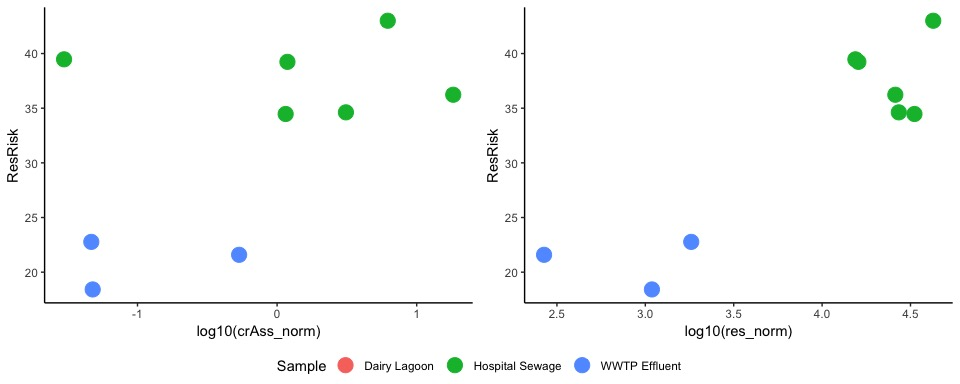
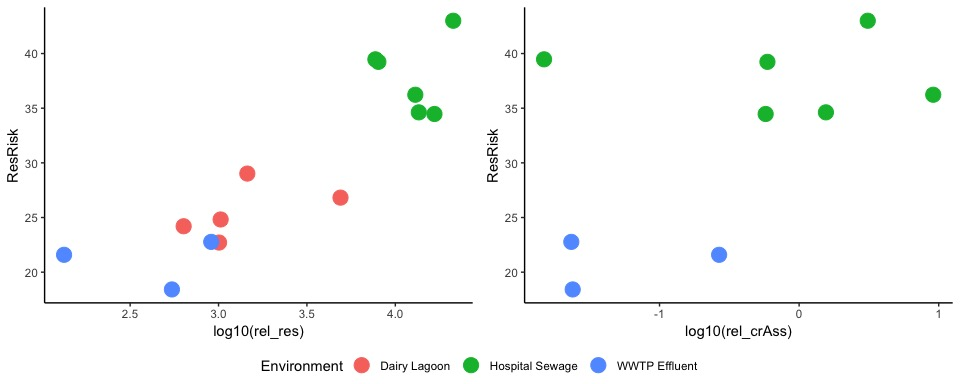
all supll done

diff --git a/README.md b/README.md
@@ -416,22 +416,22 @@ The results show that due to the one outlier (hospital effluent) with higher ARG
 The regression model between the ARG abundance and resistance risk is significant revealing the main driver behind the resistasnce risk calculations. With the resistance risk approach the hospital effluent, a possible hotspot for ARGs, would not have been spotted. For the figures, see under [Supplementary figures.](#supplementary-figures)
 
 ``` r
-risk_mod_crAss <- lm(ResRisk~log10(crAss_norm), data=res_risk)
+risk_mod_crAss <- lm(ResRisk~log10(rel_crAss), data=res_risk)
 summary(risk_mod_crAss)
 ```
 
     ## 
     ## Call:
-    ## lm(formula = ResRisk ~ log10(crAss_norm), data = res_risk)
+    ## lm(formula = ResRisk ~ log10(rel_crAss), data = res_risk)
     ## 
     ## Residuals:
     ##      Min       1Q   Median       3Q      Max 
     ## -10.2531  -4.0653  -0.8415   5.7602  13.5574 
     ## 
     ## Coefficients:
-    ##                   Estimate Std. Error t value Pr(>|t|)    
-    ## (Intercept)         33.130      2.753  12.034 6.24e-06 ***
-    ## log10(crAss_norm)    4.729      2.851   1.659    0.141    
+    ##                  Estimate Std. Error t value Pr(>|t|)    
+    ## (Intercept)        34.553      3.046  11.345 9.26e-06 ***
+    ## log10(rel_crAss)    4.729      2.851   1.659    0.141    
     ## ---
     ## Signif. codes:  0 '***' 0.001 '**' 0.01 '*' 0.05 '.' 0.1 ' ' 1
     ## 
@@ -441,29 +441,28 @@ summary(risk_mod_crAss)
     ## F-statistic: 2.752 on 1 and 7 DF,  p-value: 0.1411
 
 ``` r
-risk_mod_res <- lm(ResRisk~log10(res_norm), data=res_risk)
+risk_mod_res <- lm(ResRisk~log10(rel_res), data=res_risk)
 summary(risk_mod_res)
 ```
 
     ## 
     ## Call:
-    ## lm(formula = ResRisk ~ log10(res_norm), data = res_risk)
+    ## lm(formula = ResRisk ~ log10(rel_res), data = res_risk)
     ## 
     ## Residuals:
-    ##    Min     1Q Median     3Q    Max 
-    ## -5.002 -2.983 -1.173  3.959  4.364 
+    ##     Min      1Q  Median      3Q     Max 
+    ## -5.5922 -2.6137 -0.5924  3.5710  5.0694 
     ## 
     ## Coefficients:
-    ##                 Estimate Std. Error t value Pr(>|t|)   
-    ## (Intercept)       -7.422      7.545  -0.984  0.35799   
-    ## log10(res_norm)   10.155      1.899   5.346  0.00107 **
+    ##                Estimate Std. Error t value Pr(>|t|)    
+    ## (Intercept)      -5.087      5.375  -0.946    0.363    
+    ## log10(rel_res)   10.163      1.537   6.613 2.49e-05 ***
     ## ---
     ## Signif. codes:  0 '***' 0.001 '**' 0.01 '*' 0.05 '.' 0.1 ' ' 1
     ## 
-    ## Residual standard error: 4.233 on 7 degrees of freedom
-    ##   (5 observations deleted due to missingness)
-    ## Multiple R-squared:  0.8033, Adjusted R-squared:  0.7752 
-    ## F-statistic: 28.58 on 1 and 7 DF,  p-value: 0.001069
+    ## Residual standard error: 3.802 on 12 degrees of freedom
+    ## Multiple R-squared:  0.7847, Adjusted R-squared:  0.7667 
+    ## F-statistic: 43.73 on 1 and 12 DF,  p-value: 2.492e-05
 
 Supplementary figures
 ---------------------
@@ -646,7 +645,7 @@ The most abundant ARGs were removed due to possible bias introduced by the whole
 | *qnrVC*  | QnrVC4\_1\_GQ891757                                      |
 
 ``` r
-crass_reduced <- read.table()
+crass_reduced <- read.table("data/crass_reduced.txt")
 ggplot(crass_reduced, aes(x=rel_crAss, y=rel_res, color=country)) + 
   geom_smooth(method="lm") + 
   geom_point(aes(shape=crAss_detection), size=5) + 
@@ -654,8 +653,10 @@ ggplot(crass_reduced, aes(x=rel_crAss, y=rel_res, color=country)) +
   scale_y_log10() + 
   theme_classic() +
   labs(y = "Normalized ARG abundance", x="Normalized crAssphage abundance", 
-       color="Study", shape="crAssphage detection") + scale_colour_manual(values=cols)
+       color="Study", shape="crAssphage detection")
 ```
+
+![](README_files/figure-markdown_github/unnamed-chunk-20-1.jpeg)
 
 ### Supplementary Figure 4
 
@@ -725,10 +726,9 @@ grid.arrange(p1, p2, ncol=2)
 ### Supplementary Figure 7
 
 ``` r
-# The ARG data on the dairy lagoon still missing.
-p1 <- ggplot(res_risk,aes(y=ResRisk,x=log10(crAss_norm),color=Sample )) + geom_point(size=5) + 
+p1 <- ggplot(res_risk,aes(y=ResRisk,x=log10(rel_res),color=Environment)) + geom_point(size=5) + 
   theme_classic() 
-p2 <- ggplot(res_risk,aes(y=ResRisk,x=log10(res_norm),color=Sample )) + geom_point(size=5) + 
+p2 <- ggplot(res_risk,aes(y=ResRisk,x=log10(rel_crAss),color=Environment)) + geom_point(size=5) + 
   theme_classic() 
 grid_arrange_shared_legend(p1,p2, ncol=2)
 ```
